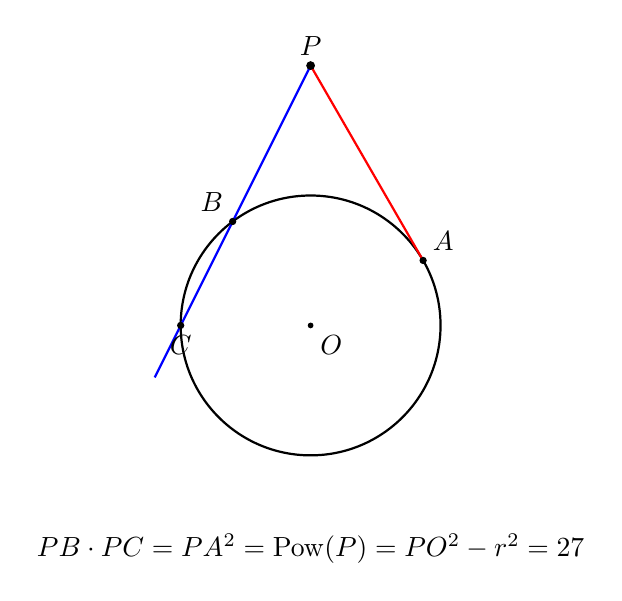
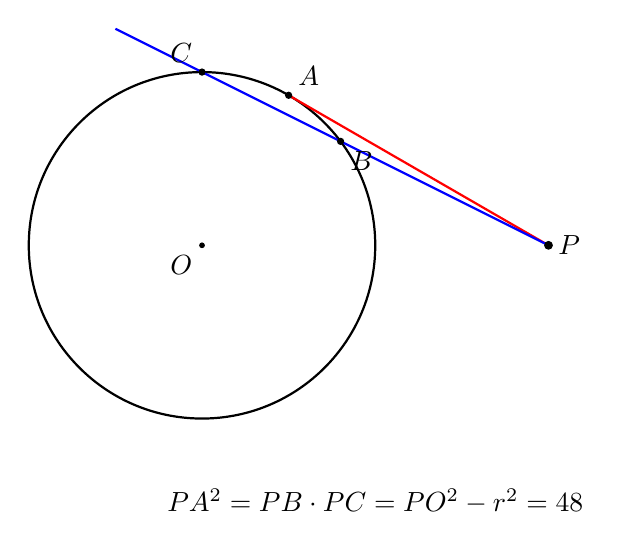
fix(images): No20 图2/图7 彻底重画——修正图注公式错误与构型不匹配
- 图2 图注原写 PA·PB=PT²（切点误名 T、公式错误），且与图内命名
  不符。改用新构型（圆r=4、P=(8,0)、乘积48），图注改 PA²=PB·PC
- 图7 原与图2 同构型且弦切角弧取错侧（钝角139.6°）。新构型
  （P=(0,6)、割线y=2x+6）保证 ∠PAB=∠ACB=31.88° 双锐角，
  与正文相似三角形符号一致

diff --git a/No20_圆幂定理与根轴.md b/No20_圆幂定理与根轴.md
@@ -41,7 +41,7 @@ $$\text{Pow}(P) = PO^2 - r^2.$$
 
 $$\text{Pow}(P) = \text{任意过 } P \text{ 的直线与圆的两交点距离之积（带符号）}.$$
 
-![图 2：割线 + 切线——$PA \cdot PB = PT^2$（都等于圆幂 $PO^2 - r^2$）](generated_images/no20_g2_secant.png)
+![图 2：割线 + 切线——$PA^2 = PB \cdot PC$（都等于圆幂 $PO^2 - r^2$，本图取 $PO^2-r^2 = 48$）](generated_images/no20_g2_secant.png)
 
 **为什么统一？** 用坐标一算就清楚：圆 $(x-a)^2 + (y-b)^2 = r^2$，点 $P$。过 $P$ 的直线参数化后，两交点对应参数 $t_1, t_2$，而 $t_1 t_2 = \dfrac{PO^2 - r^2}{(\text{方向向量长度})^2}$——**乘积只依赖 $P$ 与圆，不依赖直线方向**。所以无论割线怎么转，乘积恒等于幂。这就是圆幂定理的全部内容。
 
@@ -110,7 +110,7 @@ $$AH \cdot HD = BH \cdot HE.$$
 
 **题目**：$PA$ 切圆 $O$ 于 $A$，割线 $PBC$ 交圆于 $B, C$。证明：$PA^2 = PB \cdot PC$。
 
-![图 7：切割线定理的证明核心——弦切角 $\angle PAB$（橙）等于同弧所对圆周角 $\angle ACB$（绿），两个 $\alpha$ 相等是相似三角形的钥匙](generated_images/no20_g11_tangentangle.png)
+![图 7：切割线定理的证明核心——弦切角（橙，切线 $PA$ 与弦 $AB$ 的锐角）等于同弧所对圆周角 $\angle ACB$（绿），两个 $\alpha$ 是相似三角形的钥匙](generated_images/no20_g11_tangentangle.png)
 
 **分析**：要证乘积相等，最自然的路是**构造相似三角形**。切线 $PA$ 提供什么角关系？**弦切角定理**：$PA$ 是切线，则 $\angle PAB = \angle ACB$（弦切角等于同弧所对圆周角）。
 
